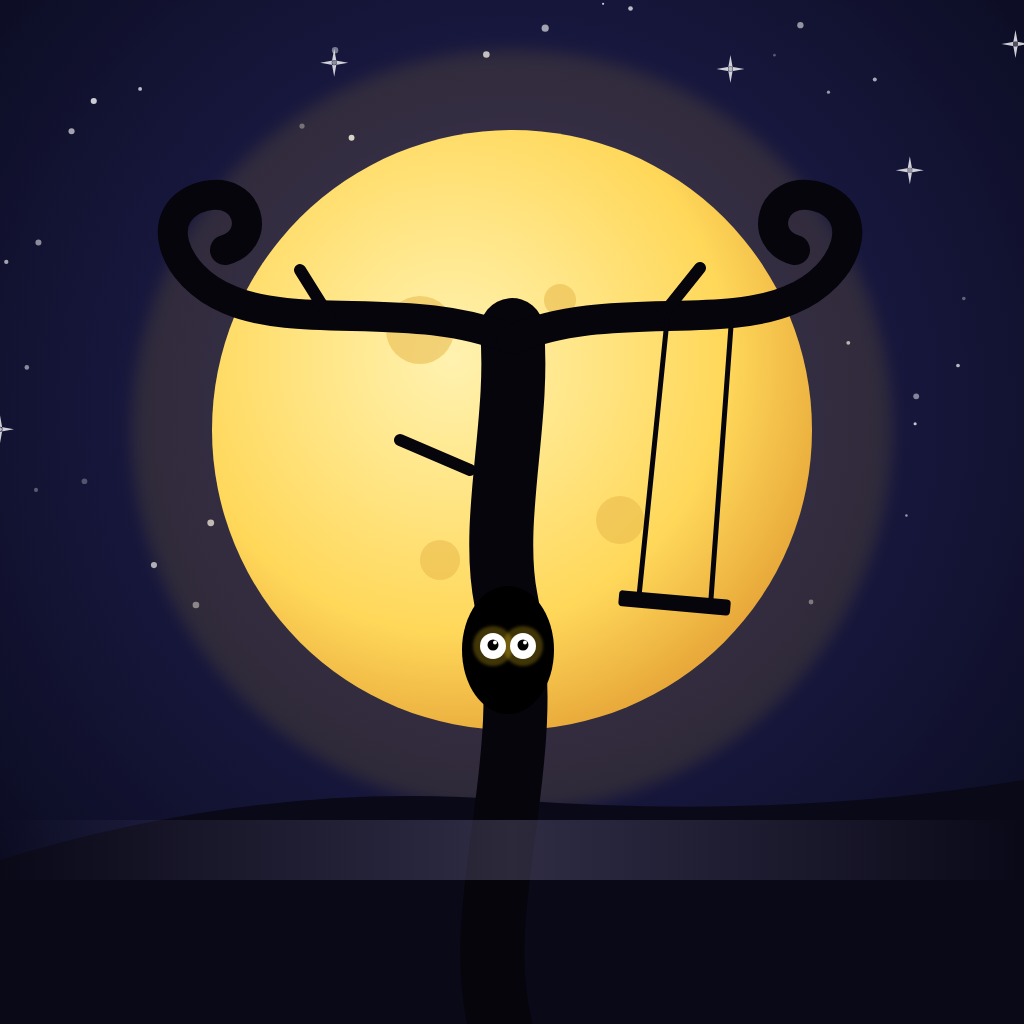
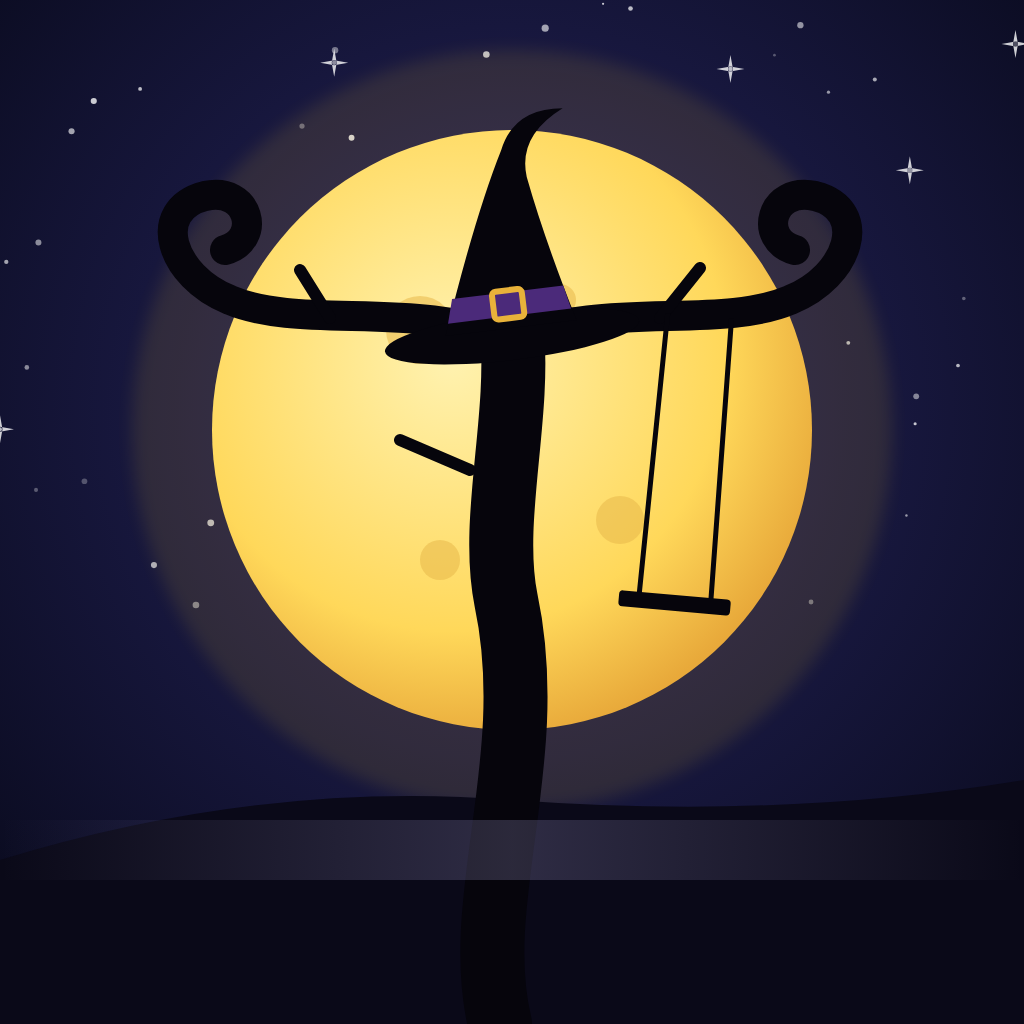
Twistory profile picture: T-tree with witch hat, no eyes
Claude-Session: https://claude.ai/code/session_01NBgYhn8kR2SXHvFhFEetMy

Changed region(s): [[0.375, 0.0938, 0.5938, 0.375], [0.4375, 0.5938, 0.5625, 0.6875]]

diff --git a/branding/profilbild5.html b/branding/profilbild5.html
@@ -122,7 +122,12 @@ const V={
      <path d="M 512 340 C 600 300 720 330 790 300 C 850 276 870 210 815 196 C 770 186 758 240 795 250" stroke-width="30"/>
      <path d="M 330 318 L 300 270 M 660 318 L 700 268 M 470 470 L 400 440" stroke-width="12"/></g>
     <g transform="rotate(5 700 312)"><path d="M 668 316 L 664 600 M 732 316 L 736 600" stroke="#06050c" stroke-width="5"/><rect x="644" y="596" width="112" height="16" rx="4" fill="#06050c"/></g>
-    <ellipse cx="508" cy="650" rx="46" ry="64" fill="#000"/>${eyes(508,646,.5,0)}
+    <g transform="translate(512 336) rotate(-7)">
+      <ellipse cx="0" cy="0" rx="128" ry="24" fill="#06050c"/>
+      <path d="M -66 -8 L 66 -8 Q 44 -92 34 -156 Q 30 -198 78 -220 Q 30 -226 12 -186 Q -22 -124 -66 -8 Z" fill="#06050c"/>
+      <path d="M -62 -20 L 62 -20 L 57 -44 L -55 -44 Z" fill="#4b2a7a"/>
+      <rect x="-15" y="-46" width="30" height="28" rx="4" fill="none" stroke="#e8b23a" stroke-width="6"/>
+    </g>
     <rect x="0" y="820" width="1024" height="60" fill="url(#fog)"/>`,
   // 7: Geschlossenes Buch – durch das Schlüsselloch starrt ein Auge
   '7':()=>`${spookyLand()}
